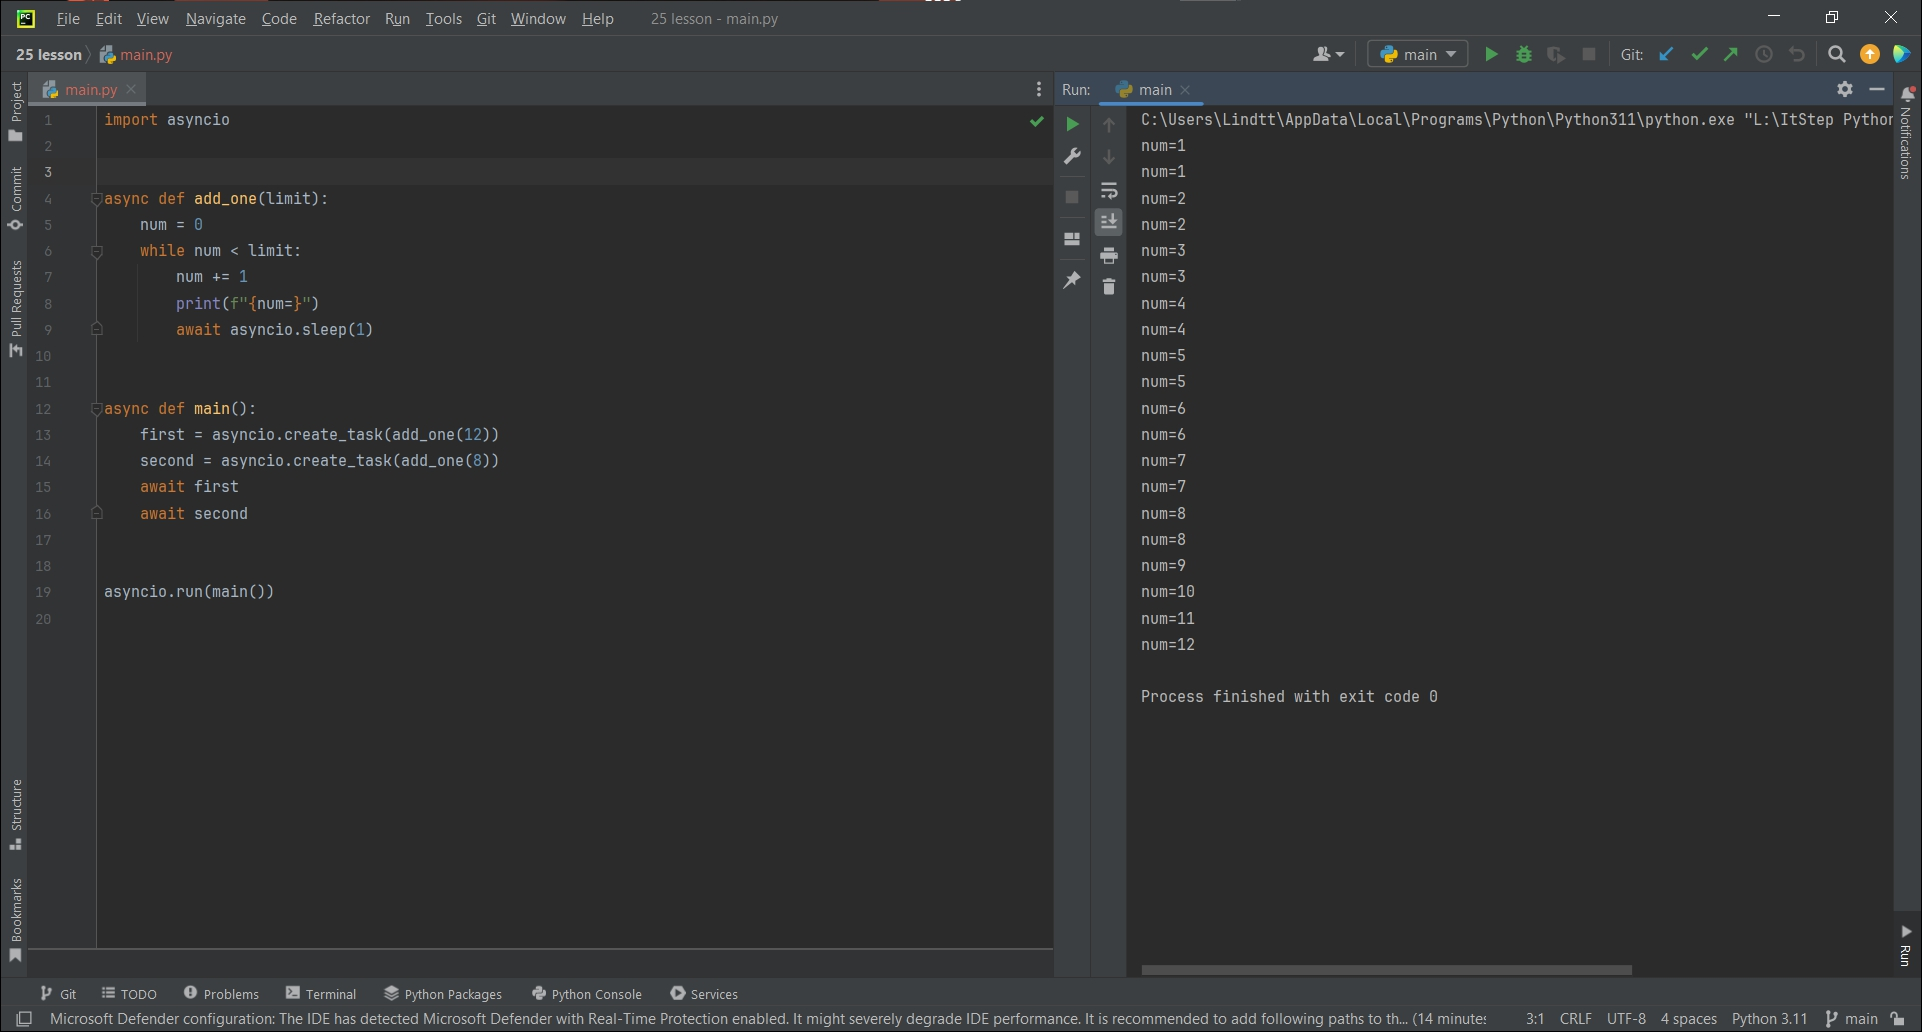
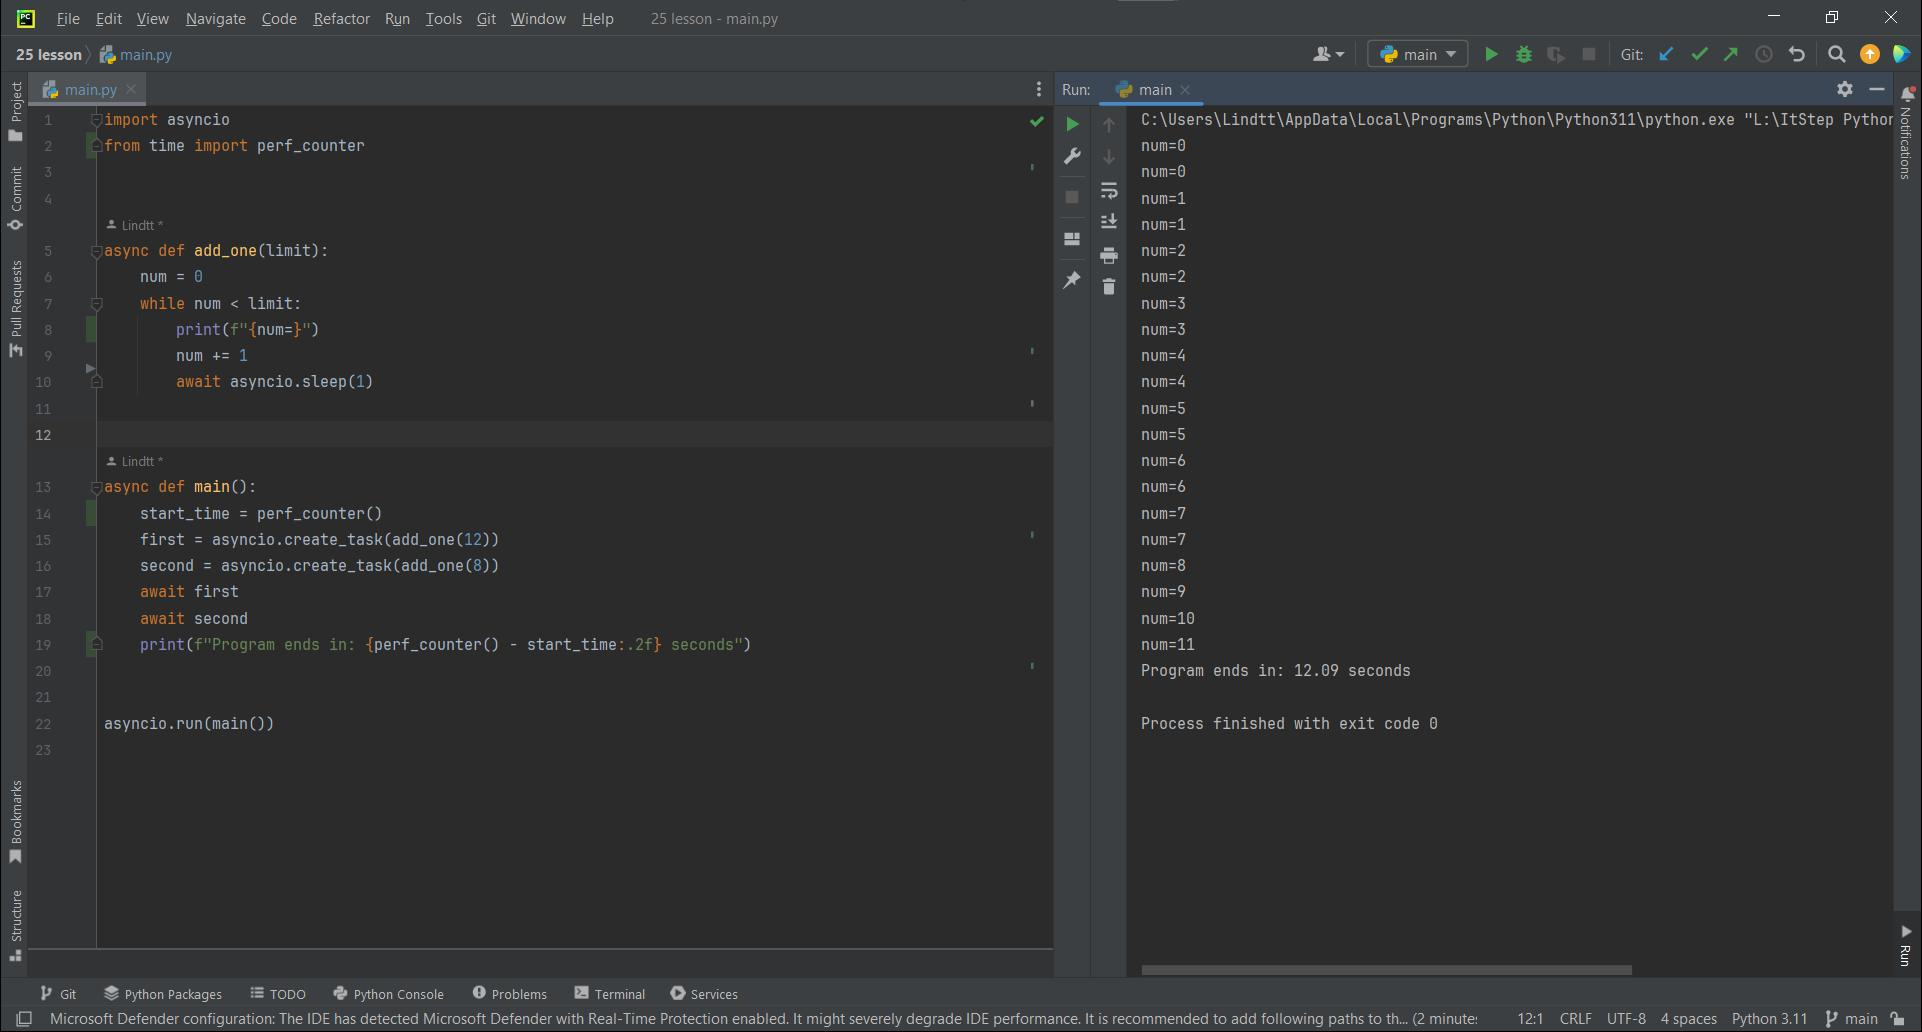
update homework 25

diff --git a/25 lesson/main.py b/25 lesson/main.py
@@ -1,19 +1,22 @@
 import asyncio
+from time import perf_counter
 
 
 async def add_one(limit):
     num = 0
     while num < limit:
-        num += 1
         print(f"{num=}")
+        num += 1
         await asyncio.sleep(1)
 
 
 async def main():
+    start_time = perf_counter()
     first = asyncio.create_task(add_one(12))
     second = asyncio.create_task(add_one(8))
     await first
     await second
+    print(f"Program ends in: {perf_counter() - start_time:.2f} seconds")
 
 
 asyncio.run(main())
